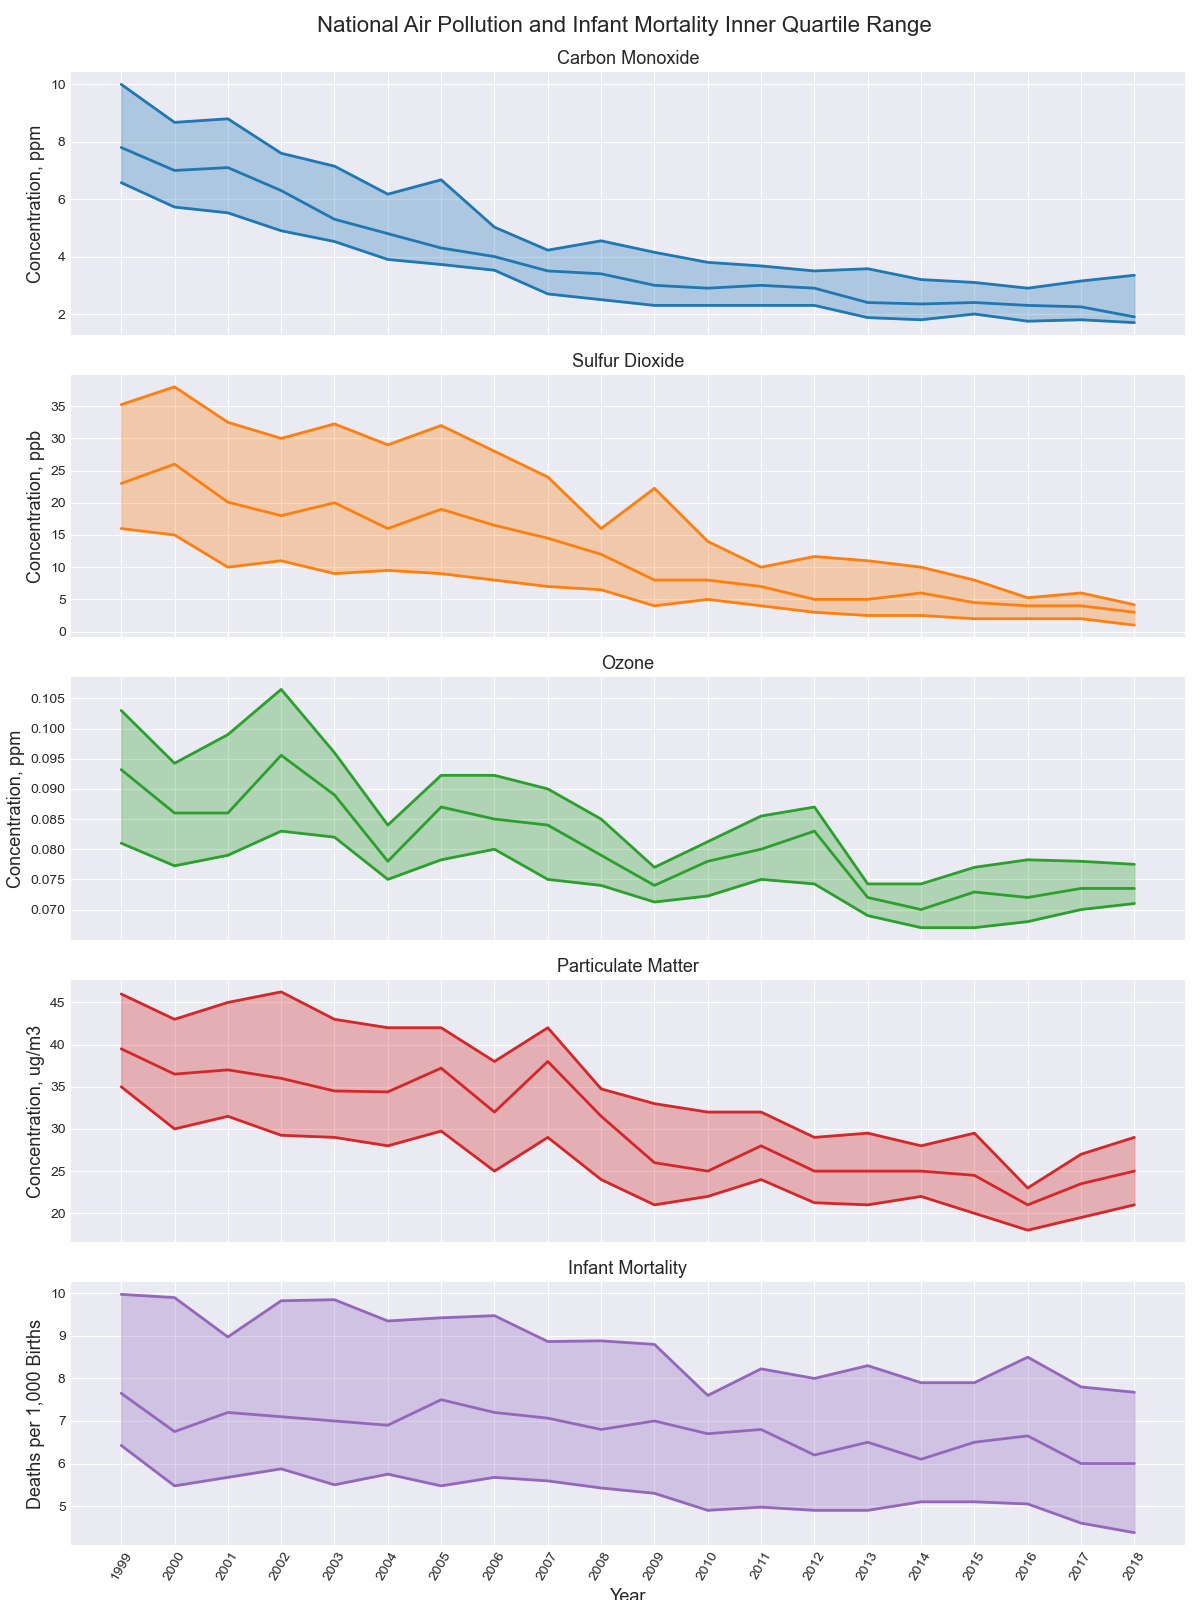
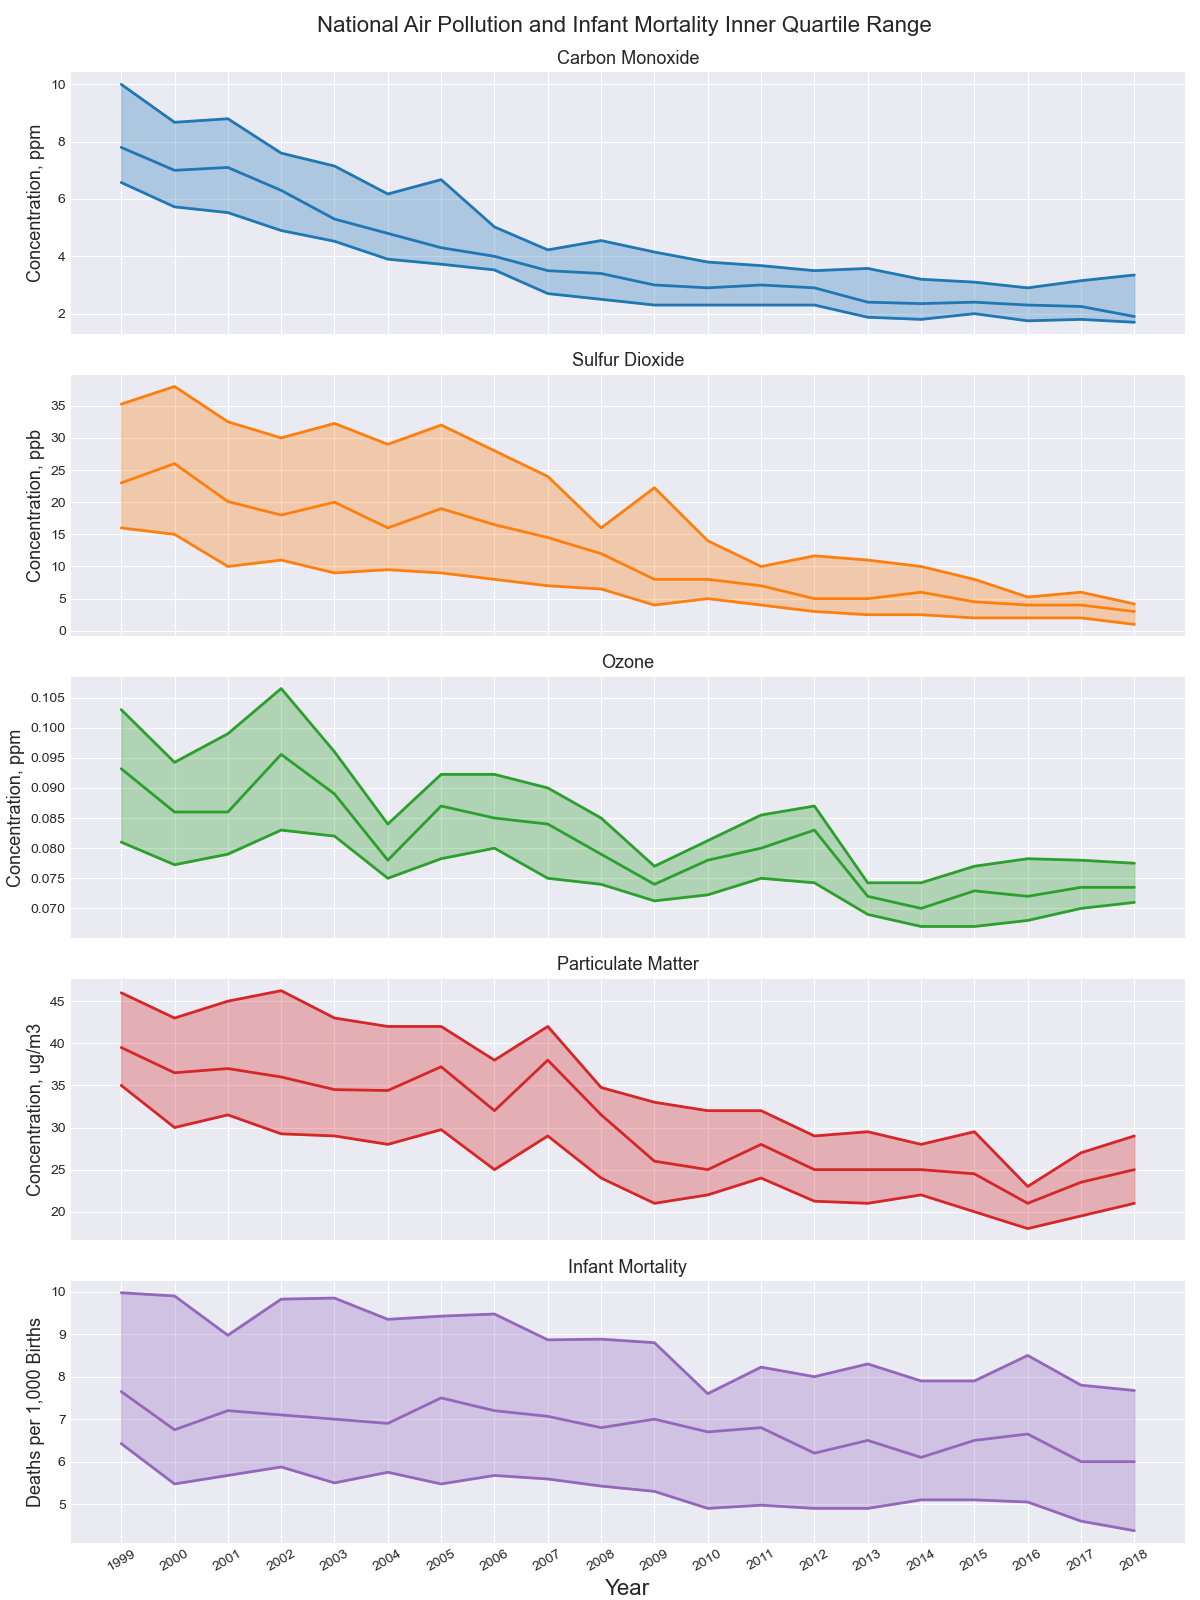
slight change to alignment of plot labels

diff --git a/src/plotting_and_visualizations.py b/src/plotting_and_visualizations.py
@@ -18,10 +18,10 @@ def plot_lines(df, metrics, ax_titles, y_labels, title, write_to):
         ax.plot(df.columns, df.loc[metrics[i]], color=next(palette), lw=3)
         ax.set_title(ax_titles[i], size=13)
         ax.set_ylabel(y_labels[i], size=13)
-    ax.set_xlabel('Year', size=13)
+    ax.set_xlabel('Year', size=16)
     fig.suptitle(title, x=.52, y=.99, size=16)
     fig.tight_layout()
-    plt.xticks(rotation=60)
+    plt.xticks(rotation=30)
     plt.savefig(write_to)
 
 def plot_ranges(dfs, metrics, ax_titles, y_labels, title, write_to):
@@ -40,10 +40,10 @@ def plot_ranges(dfs, metrics, ax_titles, y_labels, title, write_to):
         ax.set_ylabel(y_labels[i], size=13)
         ax.fill_between(x=dfs[0].columns, y1=dfs[0].loc[metrics[i]], y2=dfs[-1].loc[metrics[i]],
         color=color, alpha=.3)
-    ax.set_xlabel('Year', size=13)
+    ax.set_xlabel('Year', size=16)
     fig.suptitle(title, x=.52, y=.99, size=16)
     fig.tight_layout()
-    plt.xticks(rotation=60)
+    plt.xticks(rotation=30)
     plt.savefig(write_to)
 
 
@@ -58,7 +58,7 @@ if __name__ == '__main__':
     title = 'New York City Air Pollution and Health Outcomes'
     new_york = pd.read_csv('../data/cleaned/new_york.csv', index_col = 'Unnamed: 0')
     # print(new_york)
-    # plot_lines(new_york, metrics, titles, y_labels, title, '../images/nyc_test.png')
+    plot_lines(new_york, metrics, titles, y_labels, title, '../images/nyc_plots.png')
 
     metrics = ['CO 2nd Max 1-hr', 'SO2 2nd Max 24-hr', 'Ozone 4th Max 8-hr', 'PM2.5 98th Percentile 24-hr',
      'Infant Mortality']

diff --git a/README.md b/README.md
@@ -48,4 +48,5 @@
 
 * National data inner quartile range
     - highlight negatively sloped trendline across all featured metrics as well as infant mortality
-    - 
+
+![NYC Air Pollution and Health Outcomes](./images/nyc_plots.png)
